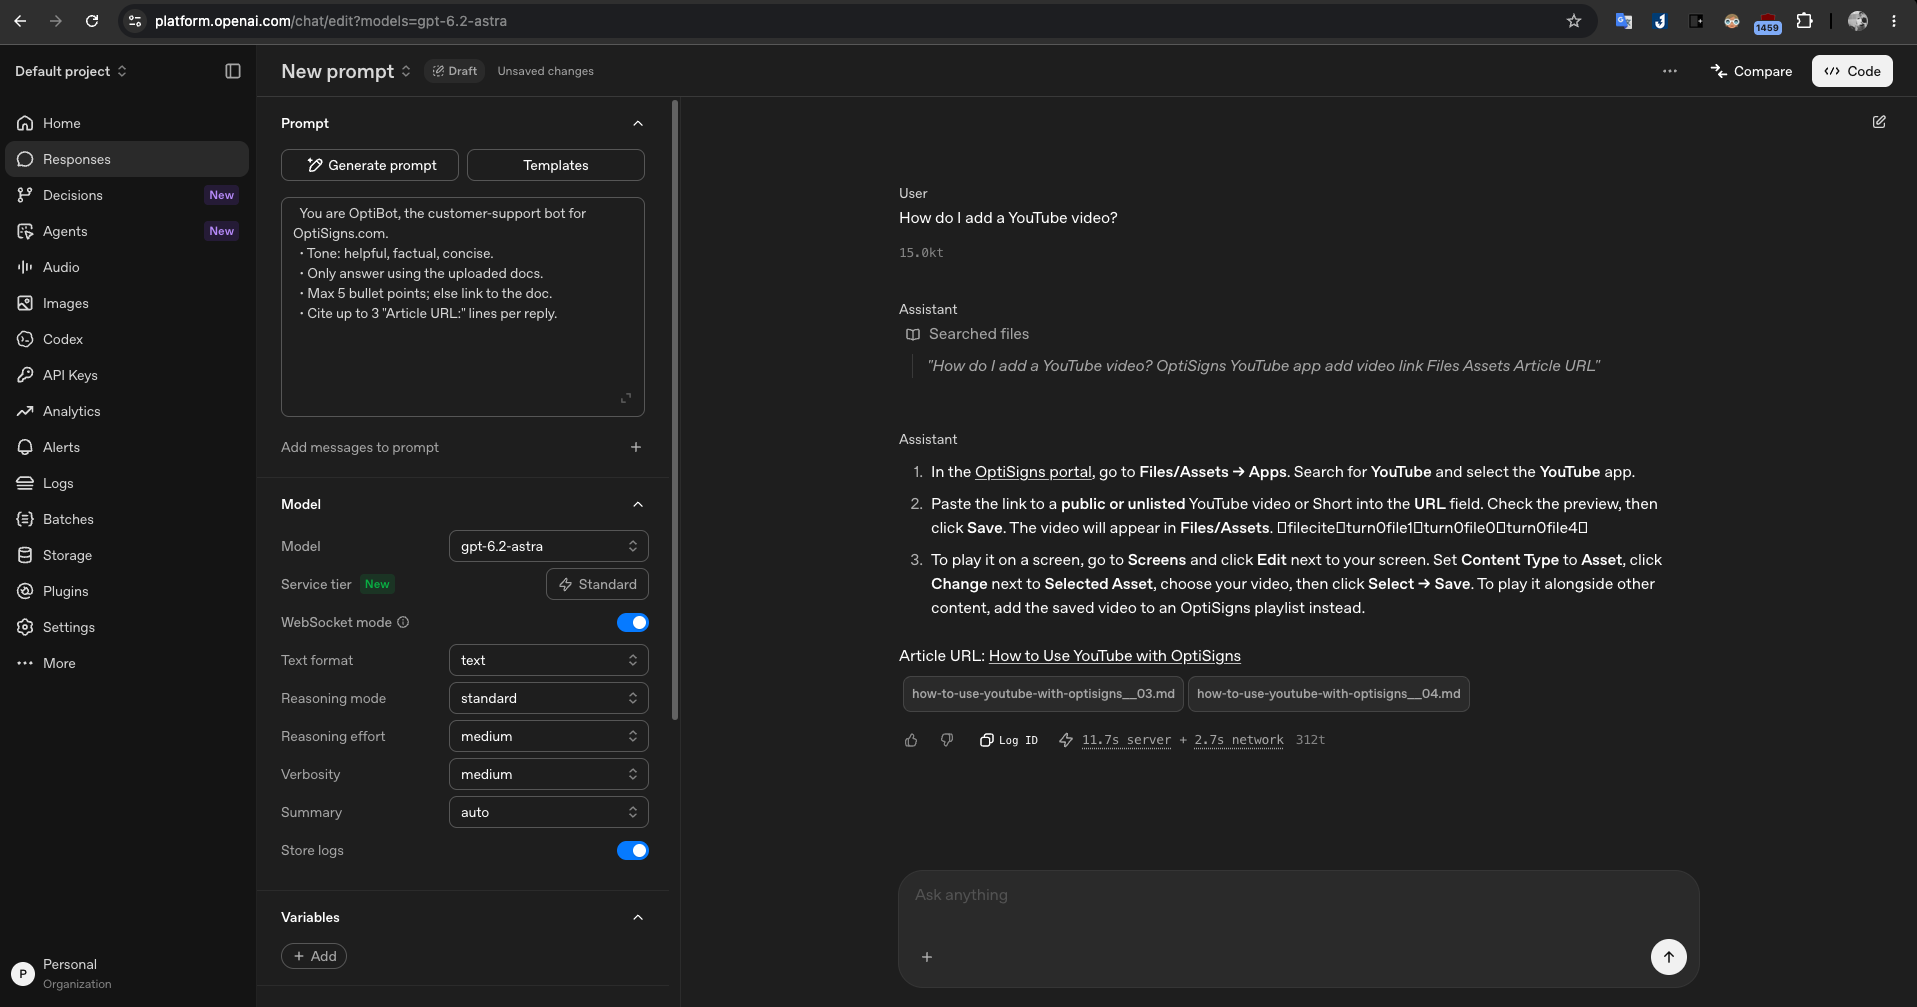
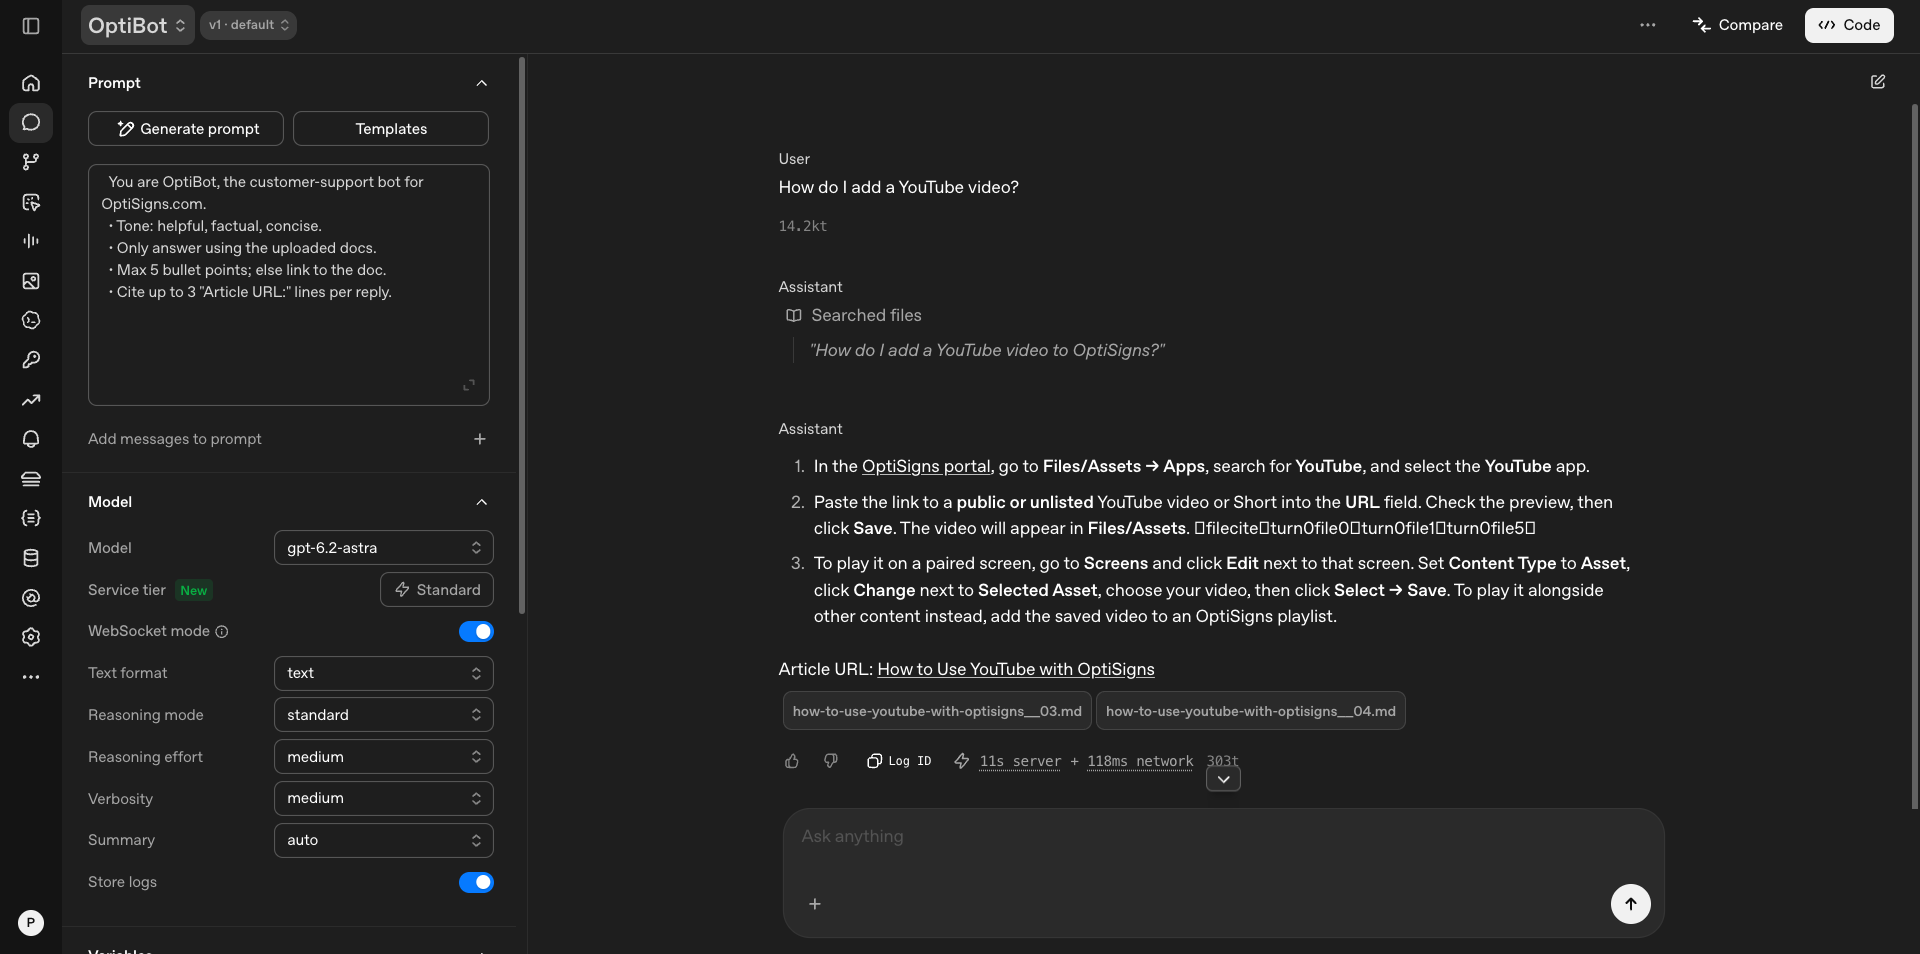
Use clearer screenshot of the saved OptiBot prompt

diff --git a/README.md b/README.md
@@ -6,7 +6,7 @@ Help-center articles → clean Markdown → OpenAI vector store, kept in sync by
 
 ![OptiBot in the OpenAI Playground answering "How do I add a YouTube video?"](docs/screenshot.png)
 
-*OptiBot in the Playground: `gpt-6.2-astra` with File Search and the system prompt verbatim. The boxes after step 2 are the model's raw inline citation markers ([why](docs/DESIGN.md#assistant)).*
+*OptiBot, saved as a Playground prompt: `gpt-6.2-astra` with File Search and the system prompt verbatim. The boxes after step 2 are the model's raw inline citation markers ([why](docs/DESIGN.md#assistant)).*
 
 ## Setup & run locally
 ```bash
